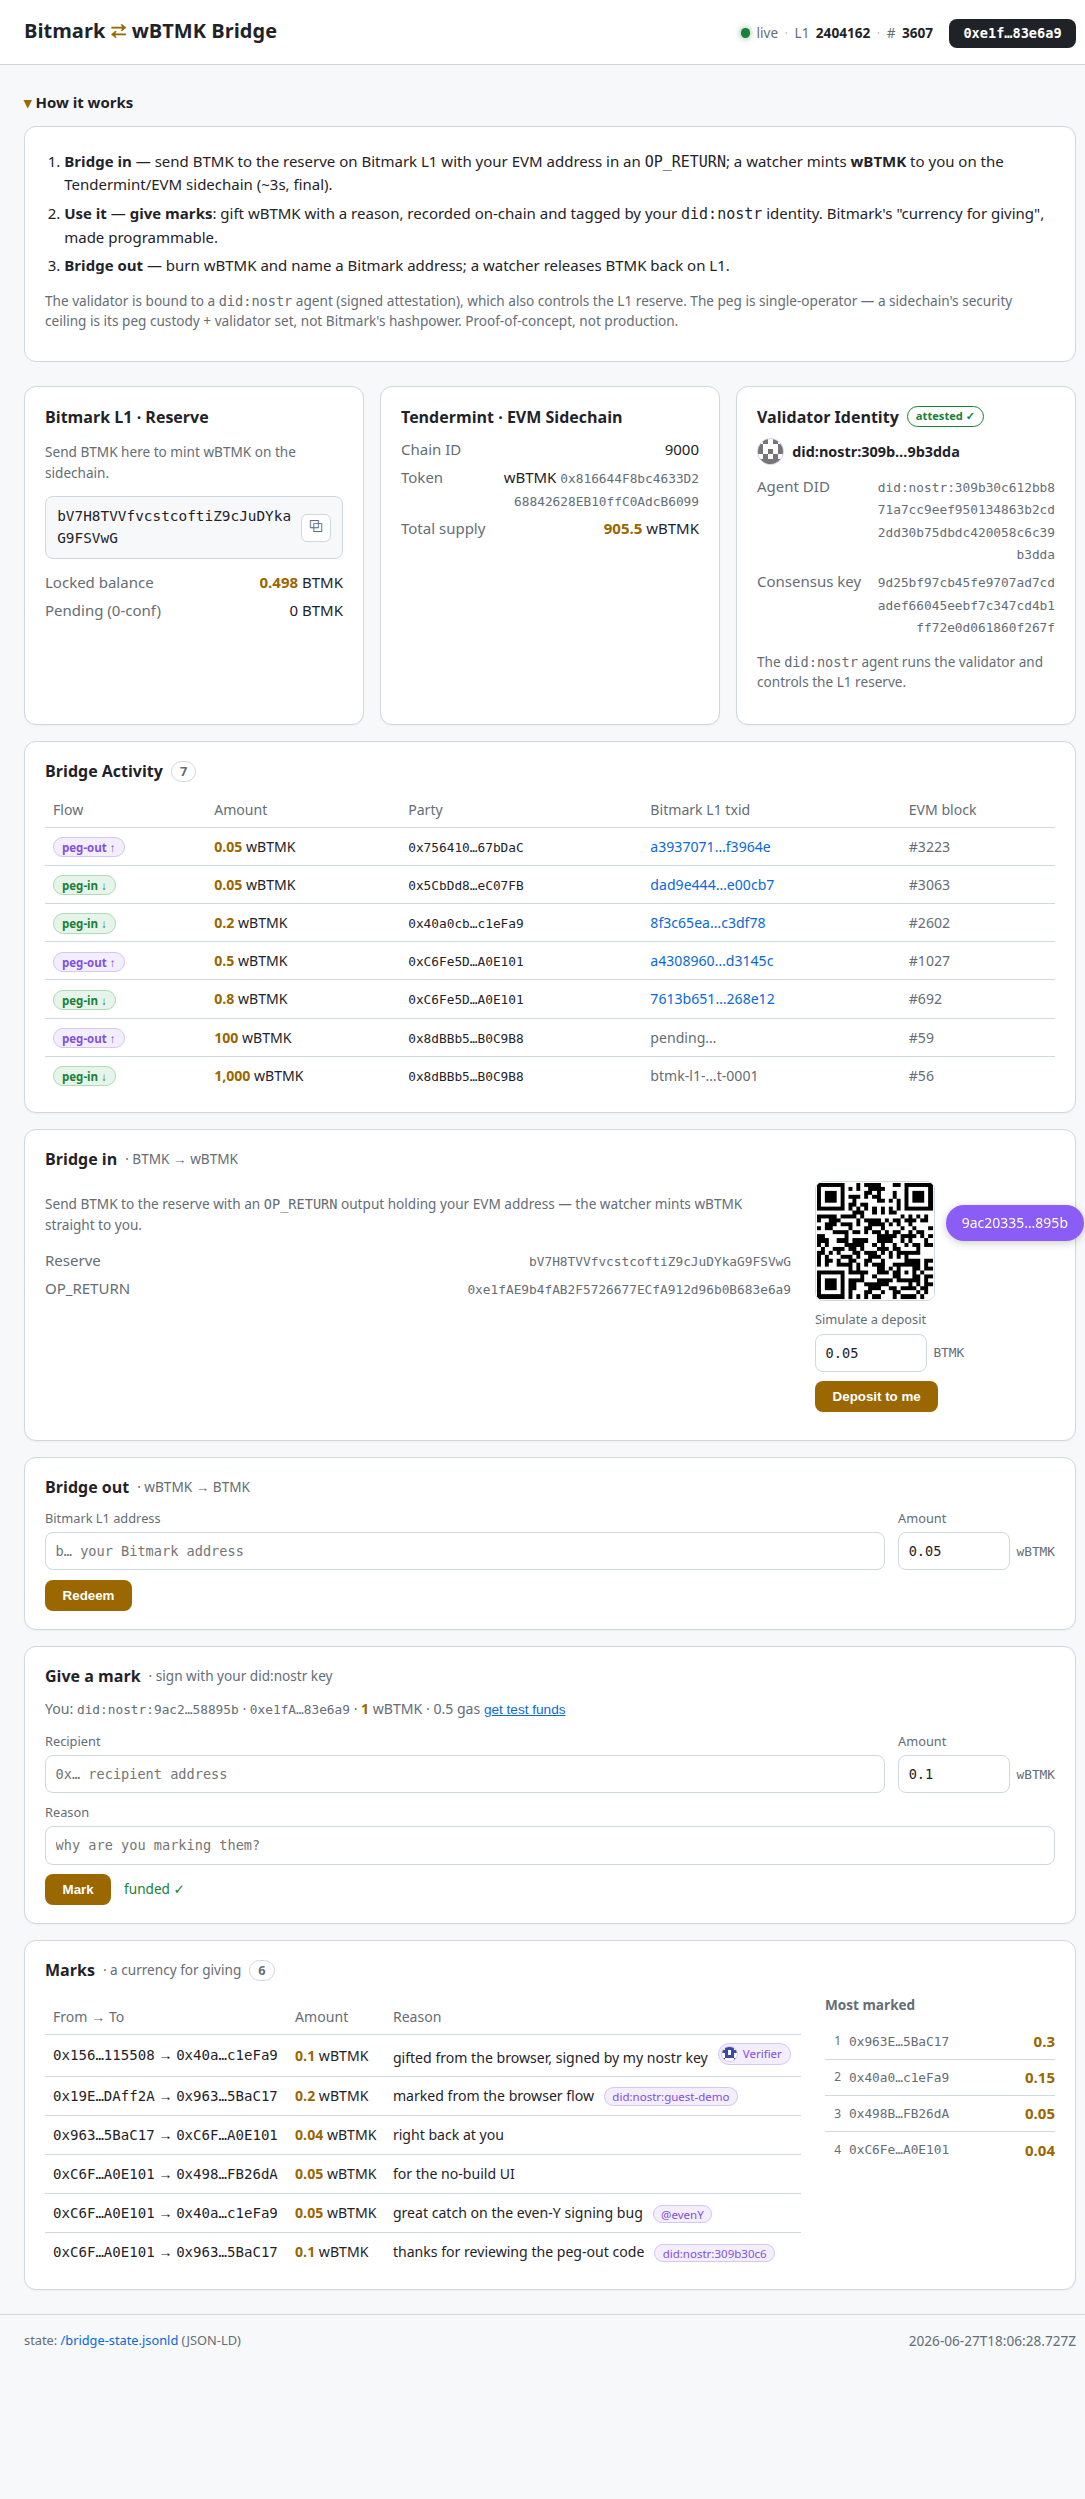
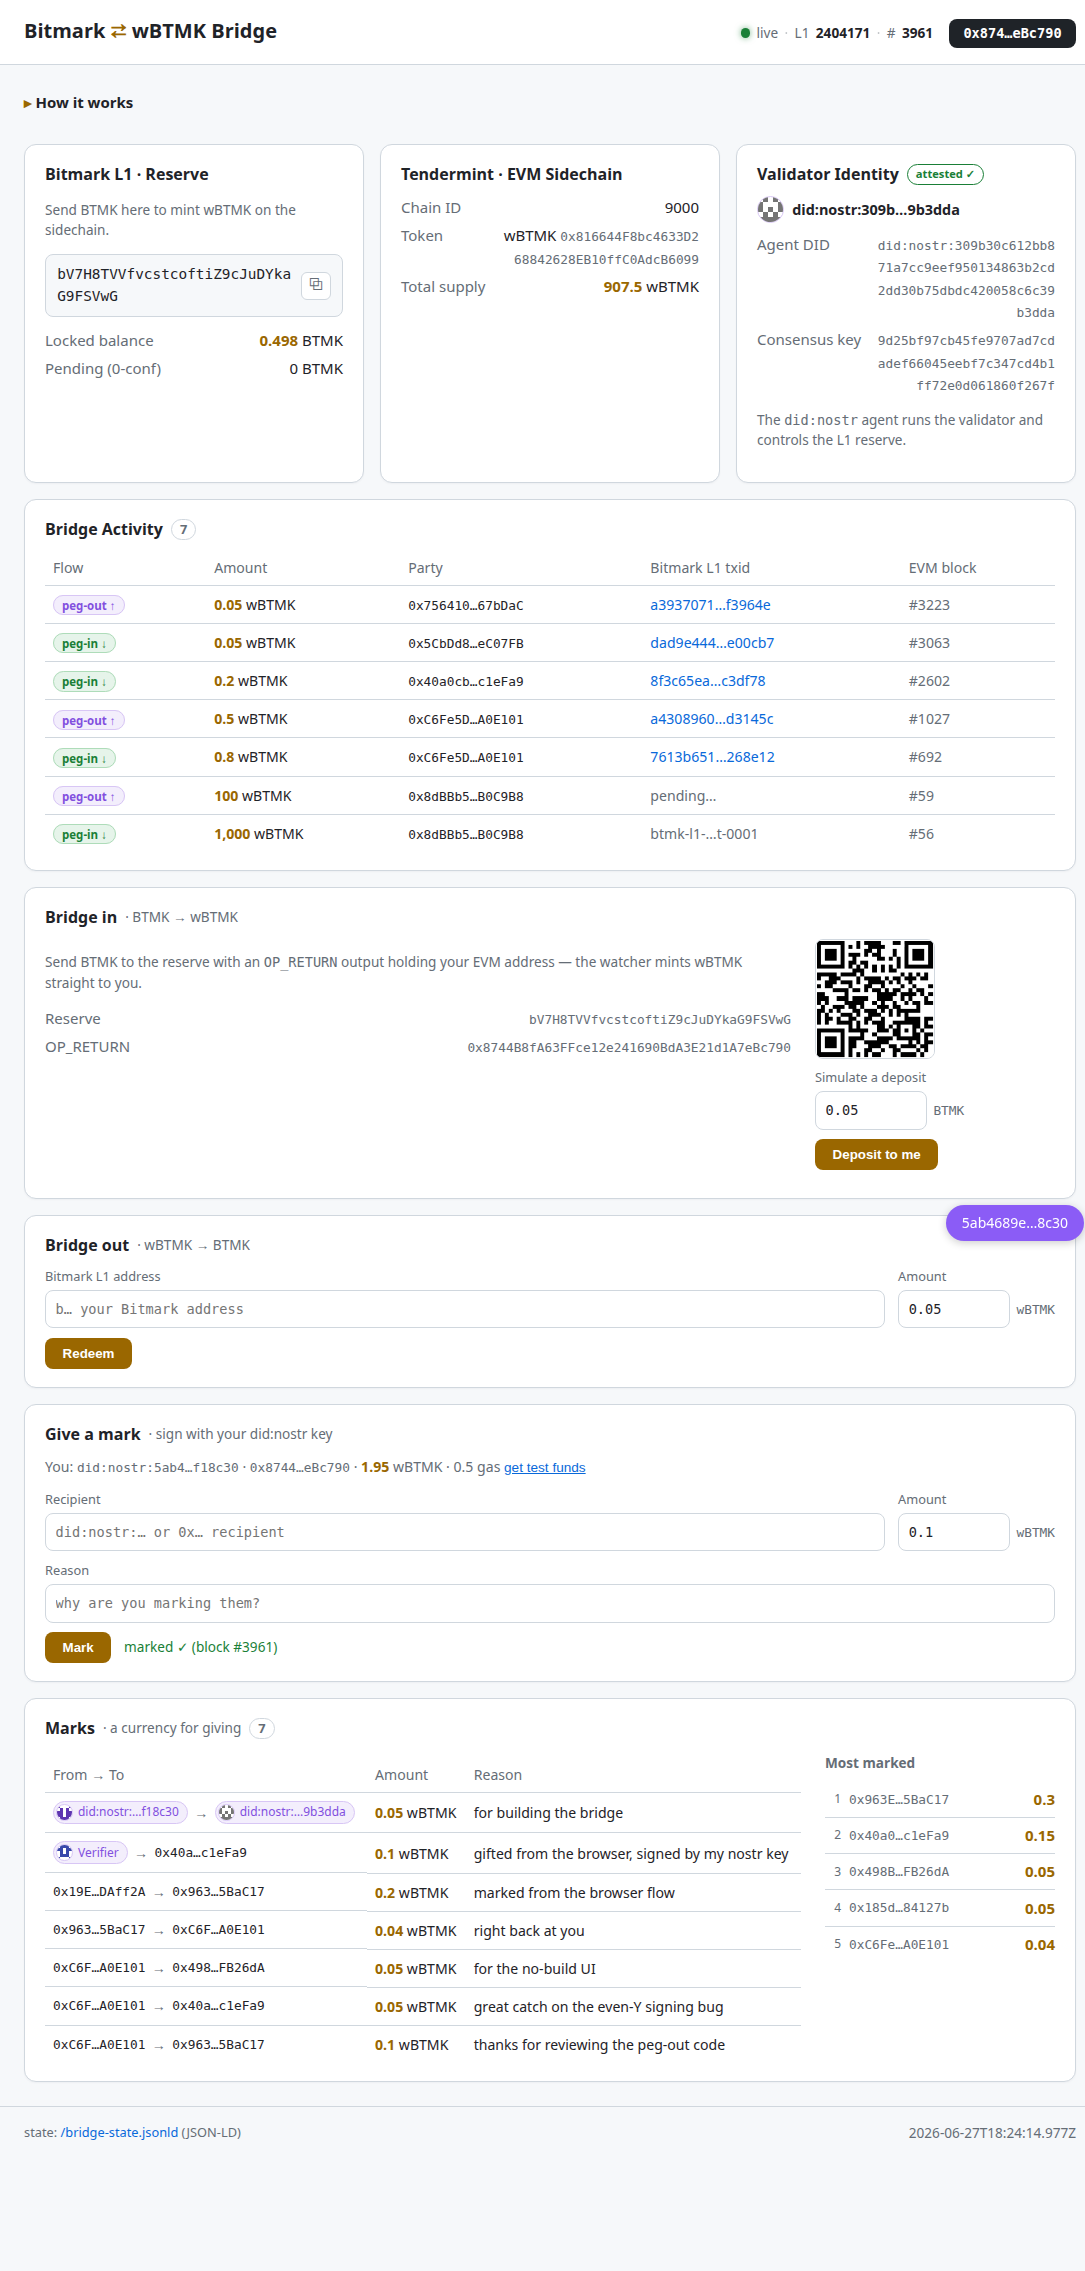
feat: give marks by did:nostr — social gifting + linked data (#1 + #2)
- mark a did:nostr (not just 0x): derive the canonical even-Y EVM address
  (ethers.computeAddress 0x02||pubkey); the wBTMK lands at *their* address.
- connected key normalized to even-Y so wallet.address == its did:nostr address
  (did:nostr <-> EVM is now a clean bijection, same even-Y rule as the reserve).
- each mark records both identities {by,to} as did:nostr; the Marks feed renders
  giver -> receiver with both avatars (legacy single-did + 0x recipients fall back).
- #2 linked data: marks exposed as @type:Mark, @id:urn:mark:<tx>:<i>, byDid/toDid
  in /bridge-state.jsonld.
- refreshed README hero to the social feed.

Verified in-browser (CDP): a guest gave the validator agent 0.05 wBTMK by
did:nostr; feed shows did:nostr -> did:nostr with avatars; funds landed at the
agent's derived EVM address (0x185d…84127b on the leaderboard).

diff --git a/ui/app.js b/ui/app.js
@@ -66,6 +66,16 @@ const profileCache = new Map();
 const didToHex = (id) => { const m = String(id || "").match(/(?:did:nostr:)?([0-9a-f]{64})/i); return m ? m[1].toLowerCase() : null; };
 const avatarUrl = (hex, prof) => prof?.picture || `https://api.dicebear.com/9.x/identicon/svg?seed=${hex}`;
 
+// did:nostr is x-only (BIP340 even-Y), so it maps to exactly one EVM address,
+// and the holder's key (normalized to even-Y) controls it. One identity, two chains.
[1 lines of base64/hex data omitted]
+const evenYKey = (priv) => {
+  const hex = priv.startsWith("0x") ? priv : "0x" + priv;
+  return new ethers.SigningKey(hex).compressedPublicKey.startsWith("0x03")
+    ? "0x" + (SECP_N - BigInt(hex)).toString(16).padStart(64, "0") : hex;
+};
+const didToEvmAddress = (hex) => ethers.computeAddress("0x02" + hex); // even-Y pubkey -> address
+
 function resolveProfile(hex) {
   if (profileCache.has(hex)) return profileCache.get(hex);
   const p = new Promise((resolve) => {
@@ -121,25 +131,24 @@ function renderMarks(marks) {
   const tb = $("[data-marks]");
   tb.innerHTML = "";
   const pks = new Set();
+  const who = (did, addr) => {
+    const hex = did && didToHex(did);
+    if (hex) {
+      pks.add(hex);
+      return `<span class="who" data-pk="${hex}" title="${esc("did:nostr:" + hex)}"><img class="av" src="${avatarUrl(hex)}" alt=""><span class="idname">${short("did:nostr:" + hex, 10)}</span></span>`;
+    }
+    return `<code class="sm">${short(addr, 5)}</code>`;
+  };
   if (!m.recent?.length) {
-    tb.innerHTML = `<tr class="empty"><td colspan="3">no marks yet</td></tr>`;
+    tb.innerHTML = `<tr class="empty"><td colspan="3">no marks yet — give one above</td></tr>`;
   } else {
     for (const k of m.recent) {
+      const byDid = k.byDid || (didToHex(k.identity) ? k.identity : null); // legacy fallback
       const tr = document.createElement("tr");
-      let tag = "";
-      if (k.identity) {
-        const hex = didToHex(k.identity);
-        if (hex) {
-          pks.add(hex);
-          tag = ` <span class="idtag who" data-pk="${hex}" title="did:nostr:${hex}"><img class="av" src="${avatarUrl(hex)}" alt=""><span class="idname">${short("did:nostr:" + hex, 12)}</span></span>`;
-        } else {
-          tag = ` <span class="idtag">${esc(k.identity)}</span>`;
-        }
-      }
       tr.innerHTML =
-        `<td class="sm"><code>${short(k.from, 5)}</code> → <code>${short(k.to, 5)}</code></td>` +
+        `<td class="pair">${who(byDid, k.from)} <span class="arrow">→</span> ${who(k.toDid, k.to)}</td>` +
         `<td class="amt"><b>${fmtAmount(k.amount)}</b> wBTMK</td>` +
-        `<td>${esc(k.reason)}${tag}</td>`;
+        `<td>${esc(k.reason)}</td>`;
       tb.appendChild(tr);
     }
   }
@@ -199,8 +208,9 @@ async function loadAccount() {
   if (!acct) return;
   did = acct["@id"] || (acct.pubkey ? `did:nostr:${acct.pubkey}` : null);
   if (acct.privkey) {
-    // guest/key login: the nostr key itself is the EVM signer (same secp256k1)
-    wallet = new ethers.Wallet(acct.privkey.startsWith("0x") ? acct.privkey : "0x" + acct.privkey, provider);
+    // guest/key login: the nostr key itself is the EVM signer (same secp256k1),
+    // normalized to even-Y so wallet.address == the address derived from its did:nostr
+    wallet = new ethers.Wallet(evenYKey(acct.privkey), provider);
     sessionMode = false;
   } else {
     // NIP-07 extension (schnorr only): sign EVM with a session key; identity stays
@@ -308,12 +318,19 @@ async function submitMark(e) {
   e.preventDefault();
   if (!wallet) return connect();
   const fd = new FormData(e.target);
-  const to = (fd.get("to") || "").trim();
+  const input = (fd.get("to") || "").trim();
   const reason = (fd.get("reason") || "").trim();
   let amount;
   try { amount = ethers.parseEther(String(fd.get("amount") || "0")); } catch { return markStatus("bad amount", "bad"); }
-  if (!ethers.isAddress(to)) return markStatus("enter a valid 0x recipient", "bad");
+  // recipient may be a did:nostr (or hex pubkey) -> derive their canonical EVM
+  // address, or a raw 0x address
+  let toAddr, toDid = null;
+  const rxHex = didToHex(input);
+  if (rxHex) { toAddr = didToEvmAddress(rxHex); toDid = "did:nostr:" + rxHex; }
+  else if (ethers.isAddress(input)) { toAddr = input; }
+  else return markStatus("enter a 0x address or did:nostr:…", "bad");
   if (amount <= 0n) return markStatus("amount must be > 0", "bad");
+  const identity = JSON.stringify({ by: did, to: toDid }); // who gave, who received
   try {
     await ensureFunded(amount);
     const token = new ethers.Contract(latest.sidechain.token.address, ERC20, wallet);
@@ -321,8 +338,8 @@ async function submitMark(e) {
     if ((await token.allowance(wallet.address, latest.marks.contract)) < amount) {
       markStatus("approving…"); await (await token.approve(latest.marks.contract, ethers.MaxUint256)).wait(1);
     }
-    markStatus("signing mark…");
-    const r = await (await marking.mark(to, amount, did || "", reason)).wait(1);
+    markStatus(toDid ? `signing mark → ${short(toDid, 14)}…` : "signing mark…");
+    const r = await (await marking.mark(toAddr, amount, identity, reason)).wait(1);
     markStatus(`marked ✓ (block #${r.blockNumber})`, "ok");
     e.target.reset();
     await refreshYou();

diff --git a/evm/server.js b/evm/server.js
@@ -124,11 +124,21 @@ async function bridgeState() {
 
   // marks (the gifting contract)
   const markEvs = await marking.queryFilter(marking.filters.Marked(), 0, "latest").catch(() => []);
-  const recentMarks = markEvs.map((e) => ({
-    "@type": "Mark", from: e.args.from, to: e.args.to,
-    amount: ethers.formatEther(e.args.amount), identity: e.args.identity, reason: e.args.reason,
-    evmBlock: e.blockNumber,
-  })).reverse();
+  const recentMarks = markEvs.map((e) => {
+    // identity carries who gave + who received as did:nostr (JSON); legacy marks
+    // stored a single did string or a plain label.
+    let byDid = null, toDid = null;
+    const idf = e.args.identity || "";
+    try { const j = JSON.parse(idf); byDid = j.by || null; toDid = j.to || null; }
+    catch { if (/^did:nostr:/.test(idf)) byDid = idf; }
+    return {
+      "@type": "Mark",
+      "@id": `urn:mark:${e.transactionHash}:${e.index ?? 0}`,
+      from: e.args.from, to: e.args.to, byDid, toDid,
+      amount: ethers.formatEther(e.args.amount), reason: e.args.reason,
+      identity: idf, evmBlock: e.blockNumber, evmTx: e.transactionHash,
+    };
+  }).reverse();
   const totals = {};
   for (const e of markEvs) totals[e.args.to] = (totals[e.args.to] || 0n) + e.args.amount;
   const leaderboard = Object.entries(totals)

diff --git a/ui/style.css b/ui/style.css
@@ -125,6 +125,10 @@ code.wrap { word-break: break-all; }
 .idtag { font-size: .72rem; color: #8250df; background: #f3eefc; border: 1px solid #d8c6f5;
   border-radius: 999px; padding: .05rem .45rem; margin-left: .4rem; white-space: nowrap; }
 .idtag.who { display: inline-flex; align-items: center; gap: .3rem; padding: .1rem .5rem .1rem .15rem; }
+.pair { display: flex; align-items: center; gap: .4rem; flex-wrap: wrap; }
+.pair .arrow { color: var(--muted); }
+.who { display: inline-flex; align-items: center; gap: .3rem; background: #f3eefc; border: 1px solid #d8c6f5;
+  border-radius: 999px; padding: .1rem .5rem .1rem .15rem; font-size: .75rem; color: #8250df; white-space: nowrap; }
 .av { width: 1.05rem; height: 1.05rem; border-radius: 50%; background: #fff; border: 1px solid #d8c6f5; vertical-align: middle; }
 .av.lg { width: 1.7rem; height: 1.7rem; }
 .agent-profile { display: flex; align-items: center; gap: .5rem; margin: 0 0 .6rem; }

diff --git a/ui/index.html b/ui/index.html
@@ -131,7 +131,7 @@
       <p class="you" data-you>Connect your nostr identity to give marks — the same key signs on the EVM sidechain.</p>
       <form class="markform" data-markform>
         <div class="mf-row">
-          <label class="grow">Recipient<input name="to" placeholder="0x… recipient address" autocomplete="off"></label>
+          <label class="grow">Recipient<input name="to" placeholder="did:nostr:… or 0x… recipient" autocomplete="off"></label>
           <label>Amount<span class="suffix"><input name="amount" type="number" step="0.0001" min="0" value="0.1"> wBTMK</span></label>
         </div>
         <label class="full">Reason<input name="reason" placeholder="why are you marking them?" maxlength="120"></label>

diff --git a/evm/README.md b/evm/README.md
@@ -124,6 +124,20 @@ profile, its **name + picture** — resolved client-side from public Nostr relay
 (`relay.nostr.band`, `relay.damus.io`, `nos.lol`) over WebSocket, cached. The
 validator's Agent DID resolves the same way. Read-only: the UI never publishes.
 
+### Mark a `did:nostr` (social gifting + linked data)
+
+You can give a mark to a **`did:nostr`**, not just a `0x…` address. Because
+`did:nostr` is x-only (BIP340, even-Y), it maps to exactly one **canonical EVM
+address** (`ethers.computeAddress("0x02"+pubkey)`), and the holder's key —
+normalised to even-Y on login — controls it. So `did:nostr ↔ EVM address` is a
+clean bijection (the same even-Y rule as the Bitcoin reserve).
+
+Each mark records **both** identities (`{by, to}` as `did:nostr`) in the contract's
+`identity` field; the feed renders **giver → receiver** with both avatars, and each
+mark is exposed as a linked-data resource (`@type: Mark`, `@id: urn:mark:<tx>:<i>`,
+`byDid`/`toDid`) in `/bridge-state.jsonld`. NIP-07/extension marks keep the real
+`did:nostr` as the giver even though signing uses a session key.
+
 ## Bridge UI (no build)
 
 `npm run ui` starts a zero-dependency Node server (`server.js`) that serves the
